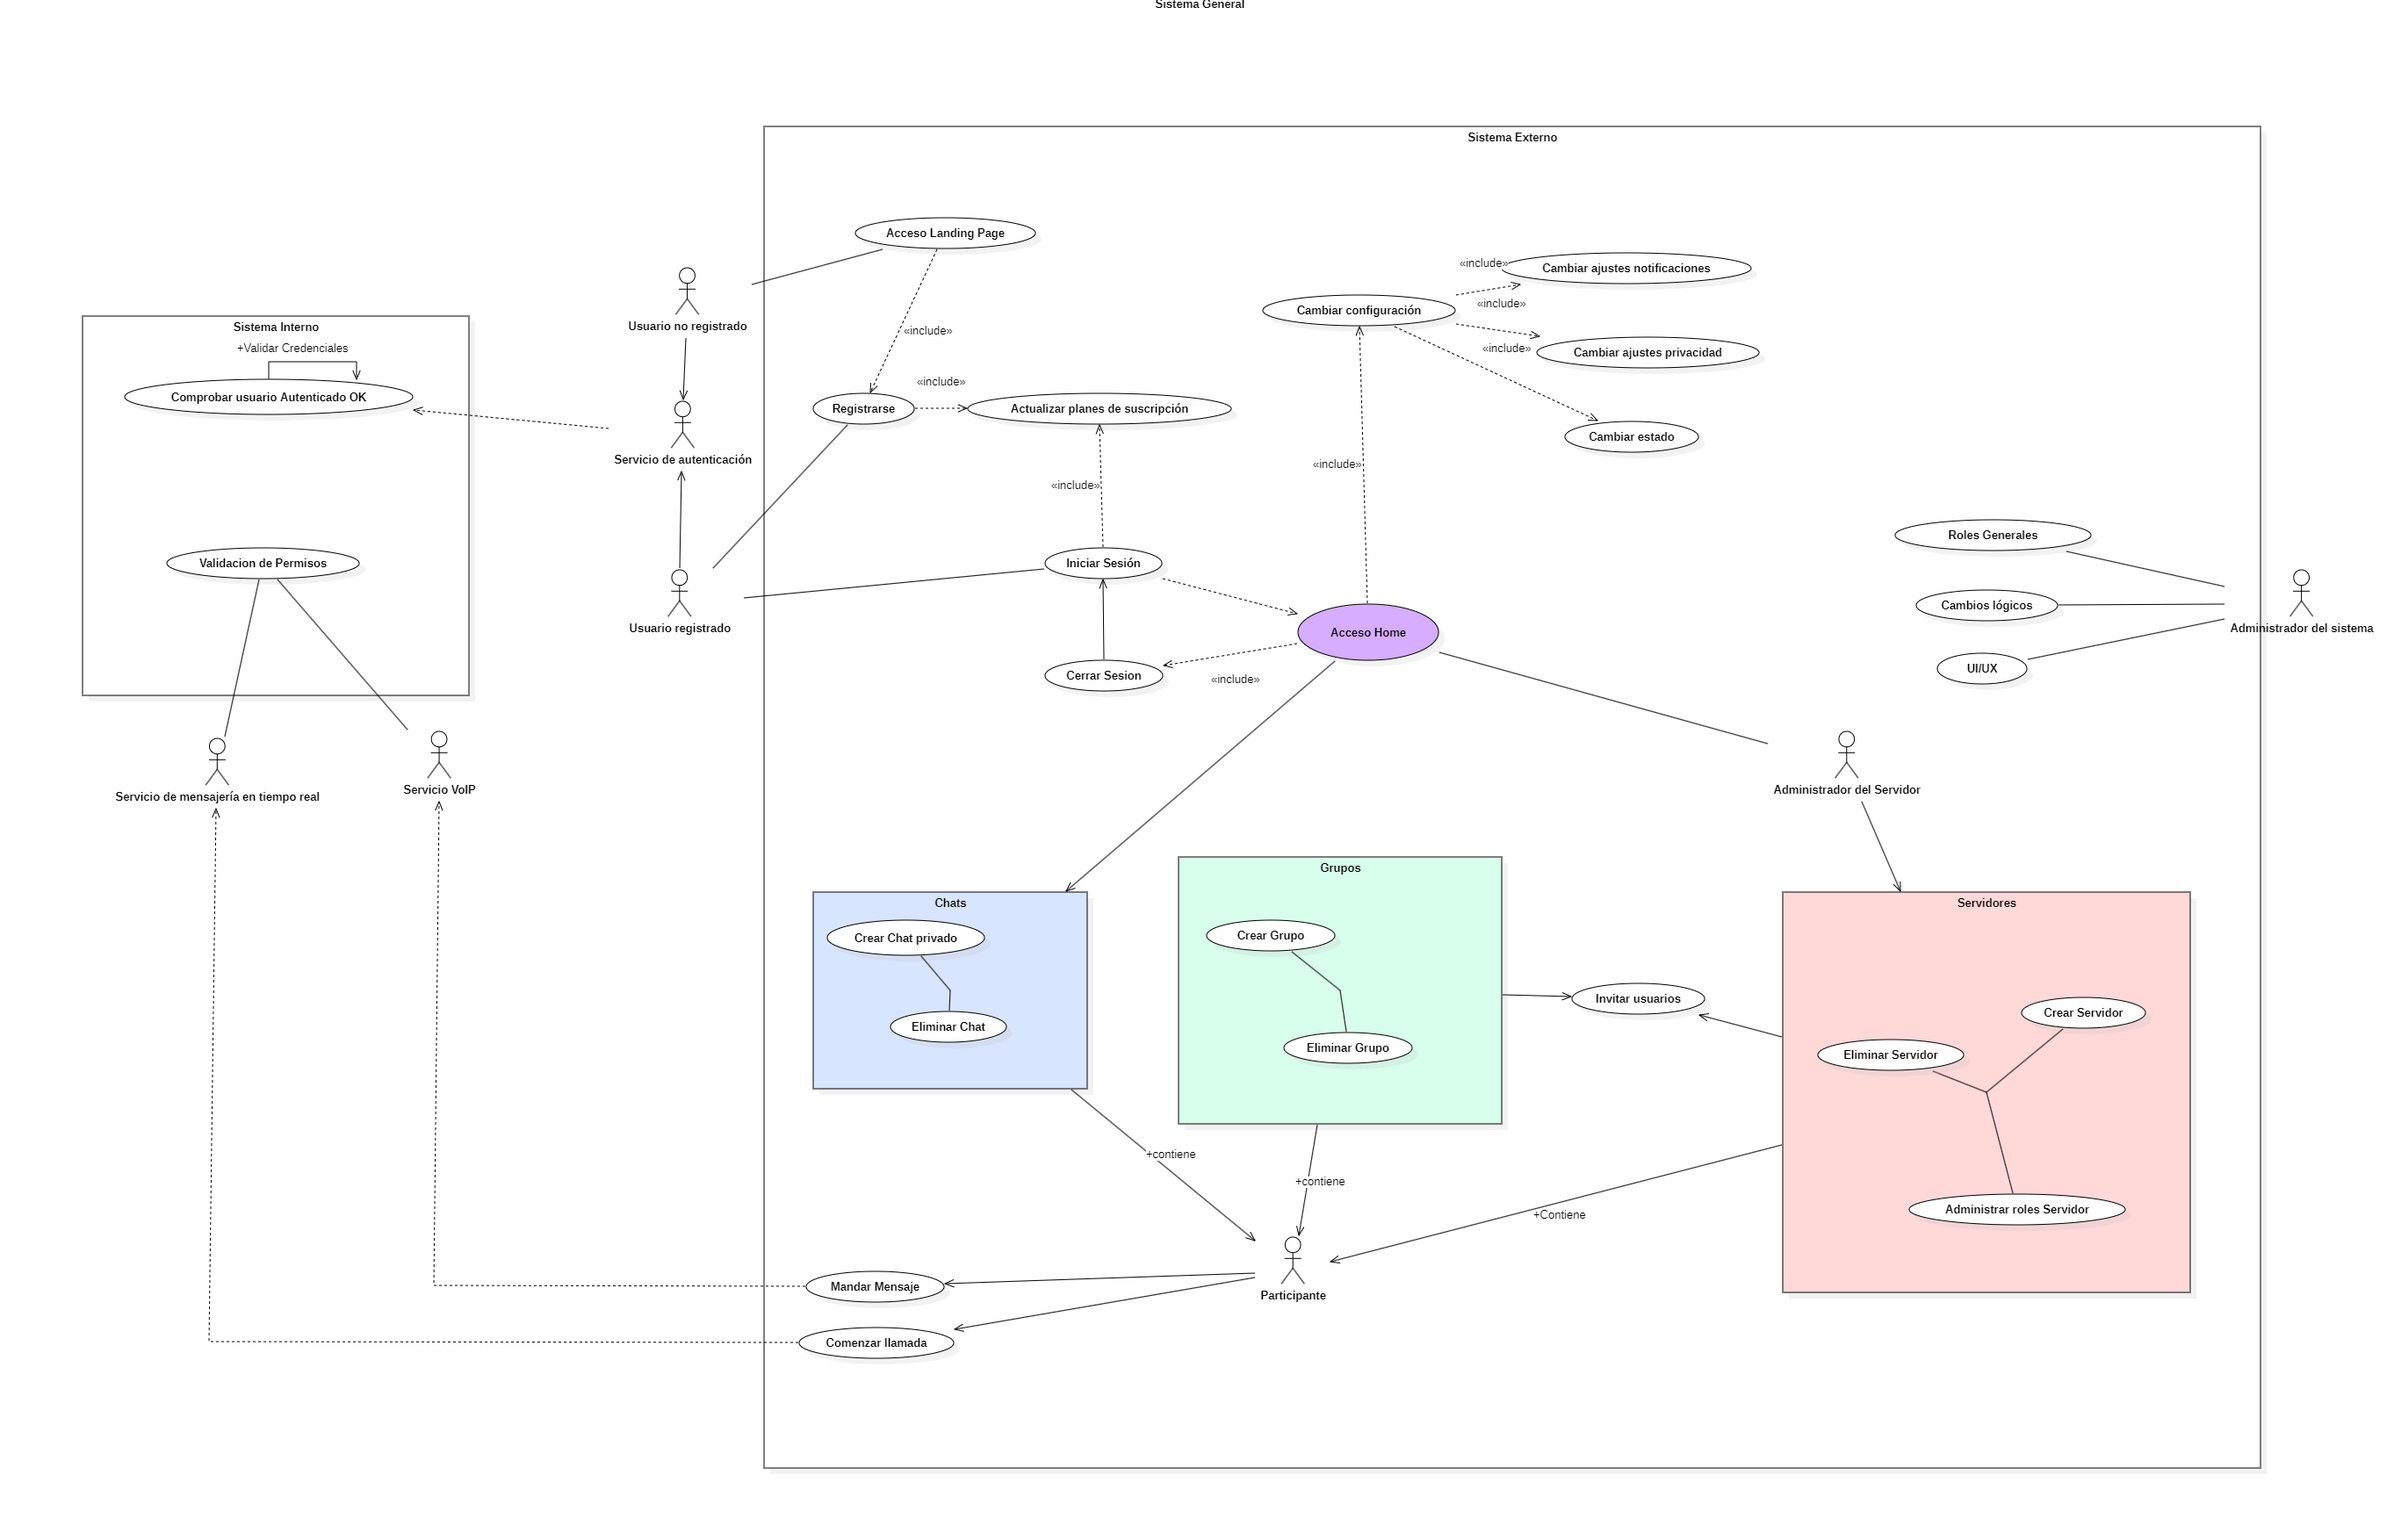
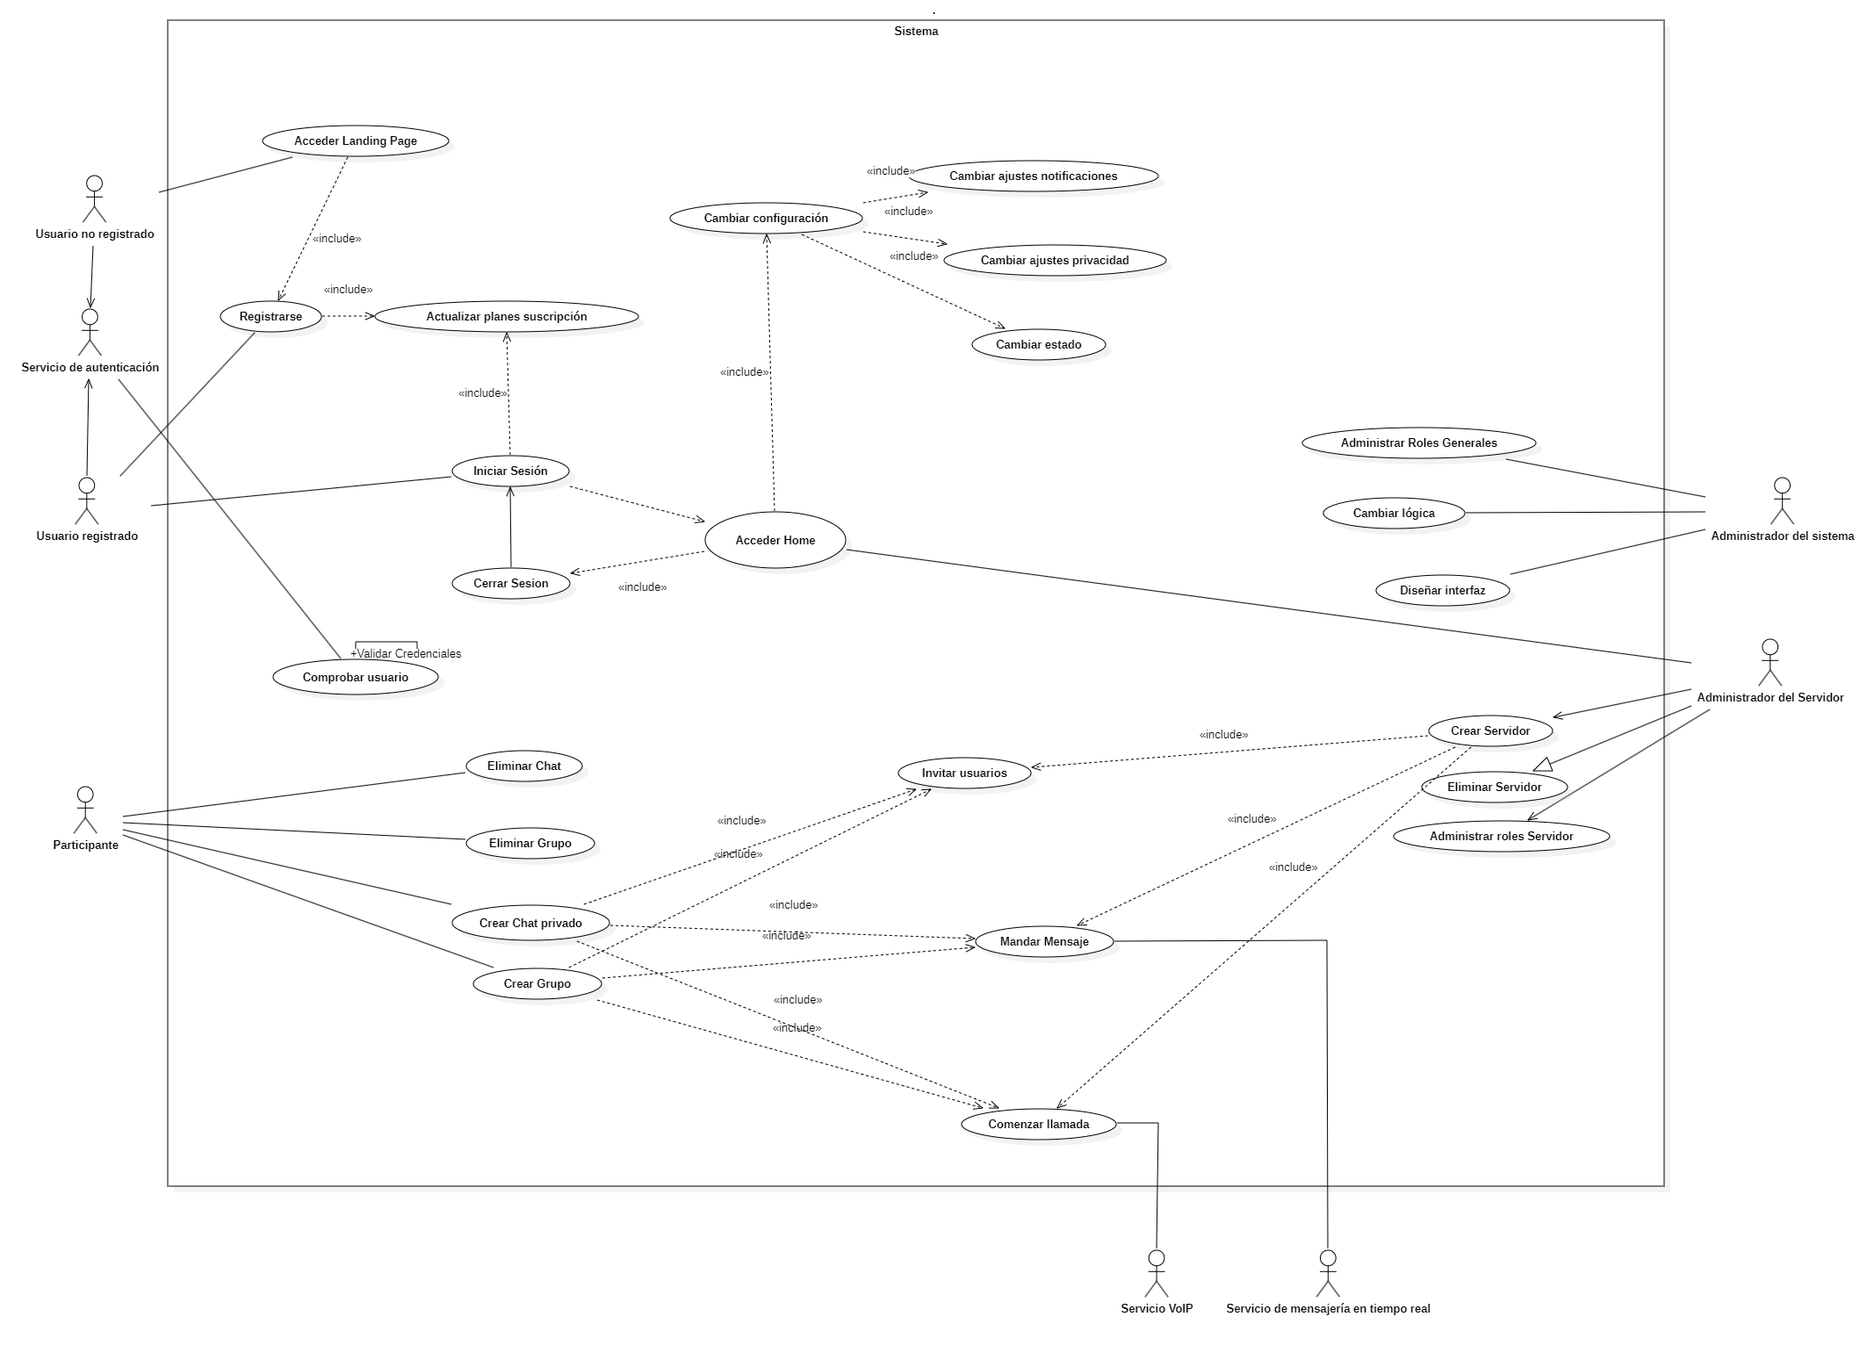
MAIN - DOCS - Diagrama de caso de uso corregido y volver a añadir el entregable 3

diff --git a/README.md b/README.md
@@ -868,16 +868,116 @@ Por último, he trabajado el espaciado usando márgenes y padding suficientes pa
 
 ---
 # Desarrollo e Implementación
+## Configuración del entorno y estructura del proyecto
 
-## Organización real del trabajo  
-## Estructura del Proyecto  
-## Aspectos relevantes de la codificación  
-## Despliegue  
+El proyecto sigue una estructura organizada y pensada para facilitar su mantenimiento y escalabilidad. Se ha optado por una separación clara entre frontend y backend, alojados en repositorios independientes. El frontend, desarrollado con React, está estructurado por componentes reutilizables y vistas, mientras que el backend en Laravel sigue una arquitectura por capas (controladores, y modelos), lo que permite aislar la lógica de negocio, el acceso a datos y la gestión de rutas. Esta división favorece la modularidad y hace más sencillo añadir nuevas funcionalidades o modificar las existentes sin afectar al resto del sistema.
+
+El entorno de desarrollo está configurado mediante variables de entorno guaradas en ficheros _.env_, lo que permite adaptar la aplicación fácilmente a distintos contextos (desarrollo, pruebas o producción). Estas variables incluyen puertos, credenciales de base de datos, claves de API y configuración de servicios como sockets.
+
+Para el proceso de instalación podemos dividirlo en dos:
+
+**Backend (Laravel)**
+
+1. Deberemos de tener instalado PHP (se puede usar el que tenemos integrado en _Xampp_), además también deberemos de tener instalado Docker y PostgreSQL o MySQL dependiendo del motor de base de datos que se quiere utilizar en desarrollo, ya que en producción siempre se ejecutara sobre el motor de PostgreSQL.
+2. Clonar repositorio
+
+```
+git clone https://github.com/EchoNowProject/Backend.git
+cd Backend
+```
+
+3. Instalar las dependencias
+
+```
+composer update
+composer install
+```
+
+4. Correr Migraciones
+   Antes de correr las migraciones deberemos de configurar el motor de la base de datos en nuestro fichero .env o usar el predeterminado.
+
+```
+cp .env.example .env
+php artisan migrate --seed
+```
+
+5. Lanzar servidor API
+
+```
+php artisan serve
+```
+
+**Frontend (React)**
+
+1. Deberemos de tener instalado Node.js
+2. Clonar repositorio
+
+```
+git clone https://github.com/EchoNowProject/Frontend.git
+cd Frontend
+```
+
+3. Instalar dependencias
+
+```
+cp .env.example .env
+npm i
+npm audit
+npm run build
+```
+
+4. Lanzar página de desarrollo
+
+```
+npm run dev
+```
+
+En cuanto al sistema de persistencia, se utiliza una base de datos relacional (PostgreSQL) gestionada desde Laravel mediante migraciones y modelos Eloquent. Las tablas están diseñadas con relaciones claras entre entidades, como usuarios y conversaciones, lo que permite gestionar correctamente los datos del sistema de chat. También se incluyen seeds para generar datos de prueba, facilitando el desarrollo y las pruebas sin necesidad de introducir información manualmente.
+
+El control de versiones se realiza con Git, utilizando repositorios separados para cada parte del proyecto. Se sigue una estrategia basada en ramas para organizar el trabajo (por ejemplo, ramas de desarrollo y funcionalidades), junto con commits descriptivos que permiten entender fácilmente los cambios realizados. Además, se incluyen varios archivos `.gitignore` adecuado para evitar subir archivos innecesarios como dependencias, archivos de entorno o compilaciones.
+
+Para garantizar la seguridad de la información, se ha definido una estrategia de copias de seguridad. Únicamente se ejecuta periódicamente en el servidor Backend y se guaran todos los ficheros incluidas las imágenes y datos del usuario
+
+Por último, la arquitectura del sistema está claramente definida y justificada. Se basa en un modelo cliente-servidor donde el frontend (React) se comunica con el backend (Laravel) a través de una API REST y WebSockets. El backend gestiona la lógica y el acceso a la base de datos, mientras que servicios adicionales como Soketi permiten la comunicación en tiempo real mediante WebSockets. Este conjunto de componentes se puede representar mediante un diagrama de arquitectura que muestre la interacción entre cliente, servidor, base de datos y servicios externos, facilitando la comprensión global del sistema.
+
+**Arquitectura general del sistema:**
+
+<img src="images/arquitectura/Arquitectura-general-del-sistema.png" alt="Arquitectura-general-del-sistema">
+
+**Arquitectura detallada del sistema:**
+
+<img src="images/arquitectura/Arquitectura-detallada-del-sistema.png" alt="Arquitectura-detallada-del-sistema">
+## Implementación inicial del Backend/servidor
+
+El sistema de enrutamiento se ha diseñado siguiendo el estilo de una API RESTful, donde cada endpoint representa un recurso del sistema (usuarios, mensajes, conversaciones, etc.). Se utilizan los métodos HTTP estándar como GET, POST, PUT y DELETE para definir las acciones sobre estos recursos. Por ejemplo, existen rutas para obtener amigos, enviar mensajes o recuperar usuarios. Estas rutas están organizadas en Laravel mediante archivos de rutas (`api.php`) o en React en mediante la carpeta `/api` lo que permite mantener una estructura limpia y fácil de ampliar.
+
+La lógica de negocio inicial se implementa en los controladores y servicios del backend. En este caso, incluye funcionalidades clave como el manejo del usuario principal, la obtención de amigos y la validación de datos antes de almacenarlos. Esta capa es fundamental porque transforma las peticiones del cliente en acciones reales dentro del sistema.
+
+La capa de acceso a datos se gestiona mediante Eloquent ORM de Laravel, lo que permite interactuar con la base de datos MySQL de forma estructurada. Se han definido modelos como `User`, `Message` y `Conversation`, junto con sus relaciones (por ejemplo, un usuario tiene muchos mensajes). La configuración de la conexión se realiza mediante variables de entorno (`.env`), donde se almacenan credenciales y parámetros sensibles. Esto permite cambiar fácilmente entre distintos entornos sin modificar el código.
+
+En cuanto a las operaciones CRUD, el proyecto implementa al menos las operaciones básicas necesarias para el funcionamiento del chat. Por ejemplo, se permite crear mensajes (CREATE) y consultar conversaciones o mensajes (READ). Estas operaciones incluyen validación de datos (campos obligatorios, formato correcto), sanitización y respuestas estructuradas en formato JSON. También se aplican conceptos como paginación en la carga de mensajes y relaciones entre entidades para devolver información completa y coherente.
+
+La gestión de errores es otro aspecto clave del backend. Se controlan las excepciones y se devuelven respuestas HTTP adecuadas según la situación. Por ejemplo, un error 400 cuando faltan datos obligatorios, un 401 si el usuario no está autenticado o un 404 cuando el recurso solicitado no existe. Esto permite que el frontend pueda interpretar correctamente los errores y actuar en consecuencia.
+
+En conjunto, esta implementación inicial del backend proporciona una base sólida sobre la que construir el resto del sistema, asegurando una comunicación eficiente entre cliente y servidor, una correcta gestión de datos y una estructura preparada para escalar.
+
+## Implementación inicial del Frontend/cliente
+
+En esta fase se desarrolla la interfaz de usuario que permite interactuar con el sistema. El proyecto utiliza React, organizando la aplicación en componentes reutilizables y manteniendo una estructura clara y semántica. Para los estilos se emplea Tailwind CSS, lo que facilita crear una interfaz coherente y adaptable.
+
+Se implementan las pantallas principales, como la vista de chat, listados de conversaciones o usuarios y formularios para enviar mensajes o crear nuevas conversaciones. Todo está estructurado de forma modular para facilitar su mantenimiento y escalabilidad.
+
+La comunicación con el backend se realiza mediante Axios, consumiendo la API REST desarrollada en Laravel. Además, se utilizan WebSockets (Soketi) para actualizar los mensajes en tiempo real sin recargar la página.
+
+El renderizado dinámico se gestiona con React, actualizando automáticamente la interfaz cuando cambian los datos, por ejemplo al recibir nuevos mensajes.
+
+Por último, se incluye validación en el cliente para asegurar que los datos sean correctos antes de enviarlos, junto con feedback visual como errores o desactivación de botones, mejorando la experiencia de usuario.
+
 ## Plan de Prevención de Riesgos Laborales
 
 Este documento recoge las medidas básicas de prevención de riesgos aplicadas durante el desarrollo del proyecto EchoNow, centrado en trabajo con equipos informáticos y desarrollo software.
 
-## Análisis del puesto
+### Análisis del puesto
 
 La actividad principal del proyecto consiste en el desarrollo de una aplicación web en tiempo real, utilizando tecnologías como Laravel, React y herramientas de contenedorización. El trabajo se realiza frente a un ordenador durante periodos prolongados, lo que implica una exposición continua a pantallas y una interacción constante con dispositivos de entrada como teclado y ratón.
 
@@ -888,7 +988,8 @@ También se identifican riesgos asociados al entorno físico de trabajo, como la
 Por otro lado, el desarrollo de software implica una carga mental considerable. La resolución de problemas, la presión por plazos y la necesidad de mantener la concentración durante largos periodos pueden generar fatiga mental y estrés si no se gestionan correctamente.
 
 ---
-## Medidas adoptadas
+
+### Medidas adoptadas
 
 Para reducir los riesgos detectados, se han aplicado una serie de ajustes en el puesto de trabajo orientados principalmente a la ergonomía. La silla se ajusta en altura para permitir una posición cómoda, manteniendo la espalda recta y los pies apoyados. La pantalla se sitúa a la altura de los ojos para evitar inclinaciones del cuello, y se mantiene una distancia adecuada que facilite la lectura sin forzar la vista.
 
@@ -897,7 +998,8 @@ Además, se cuida la disposición de los elementos de trabajo para que el acceso
 Estas medidas no eliminan completamente el riesgo, pero sí lo reducen significativamente, especialmente cuando se mantienen de forma constante a lo largo del tiempo.
 
 ---
-## Planificación de descansos
+
+### Planificación de descansos
 
 Uno de los aspectos más importantes en este tipo de actividad es la gestión de los tiempos de descanso. El trabajo continuado frente a la pantalla puede generar fatiga tanto física como mental, por lo que se establecen pausas periódicas durante la jornada.
 
@@ -906,7 +1008,8 @@ Se realizan descansos breves de forma regular, lo que permite reducir la tensió
 Estos descansos también se aprovechan para cambiar de postura o realizar pequeños movimientos, lo que contribuye a prevenir molestias musculares y mejora el bienestar general durante la jornada.
 
 ---
-## Gestión de carga mental
+
+### Gestión de carga mental
 
 El desarrollo del proyecto requiere mantener un alto nivel de concentración y afrontar tareas que pueden resultar complejas. Para evitar situaciones de estrés o sobrecarga, se organiza el trabajo de forma estructurada, utilizando metodologías que permiten dividir las tareas y establecer prioridades claras.
 
@@ -915,7 +1018,8 @@ La planificación previa y la organización del trabajo ayudan a evitar acumulac
 El objetivo no es únicamente mejorar la productividad, sino también garantizar que el desarrollo del proyecto se realice en condiciones sostenibles a lo largo del tiempo.
 
 ---
-## Seguridad física
+
+### Seguridad física
 
 El entorno de trabajo se mantiene en condiciones adecuadas para evitar riesgos innecesarios. Se presta especial atención al orden del espacio, evitando la acumulación de objetos y asegurando que los elementos necesarios estén correctamente organizados.
 
@@ -924,7 +1028,8 @@ Los cables de los equipos se colocan de forma que no interfieran en el paso ni g
 En cuanto al uso de equipos eléctricos, se procura utilizar dispositivos en buen estado y evitar la sobrecarga de enchufes, reduciendo así el riesgo de fallos eléctricos o incidencias mayores.
 
 ---
-## Seguridad digital
+
+### Seguridad digital
 
 Además de los riesgos físicos, en el desarrollo del proyecto se tienen en cuenta aspectos relacionados con la seguridad digital. Aunque no afectan directamente a la salud física, forman parte de un entorno de trabajo seguro y controlado.
 
@@ -933,16 +1038,18 @@ Se aplican buenas prácticas en el desarrollo del software, como la validación 
 También se mantiene una gestión adecuada de las herramientas utilizadas, asegurando que el entorno de desarrollo sea estable y evitando configuraciones que puedan comprometer la seguridad o el correcto funcionamiento del sistema.
 
 ---
-## Conclusión
+
+### Conclusión
 
 El desarrollo de software, aunque no presenta riesgos elevados en términos físicos, sí implica una serie de factores que pueden afectar a la salud si no se gestionan adecuadamente. La combinación de medidas ergonómicas, una correcta organización del trabajo y la atención al entorno físico permite reducir estos riesgos de forma considerable.
 
 La prevención en este contexto no debe entenderse como una obligación puntual, sino como un conjunto de hábitos que se aplican de forma continua. Mantener buenas prácticas durante el desarrollo del proyecto no solo mejora la seguridad, sino que también contribuye a un mejor rendimiento y a una mayor calidad del trabajo realizado.
 
 ---
-# Glosario de Términos y Acrónimos  
 
-Glosario dedicado a la definición y/o explicación de nuevos de *términos - acrónimos - siglas*.    
+# Glosario de Términos y Acrónimos
+
+Glosario dedicado a la definición y/o explicación de nuevos de _términos - acrónimos - siglas_.
 
 | Palabra   | Significado                                                                                                                                                                                                      |
 | --------- | ---------------------------------------------------------------------------------------------------------------------------------------------------------------------------------------------------------------- |
